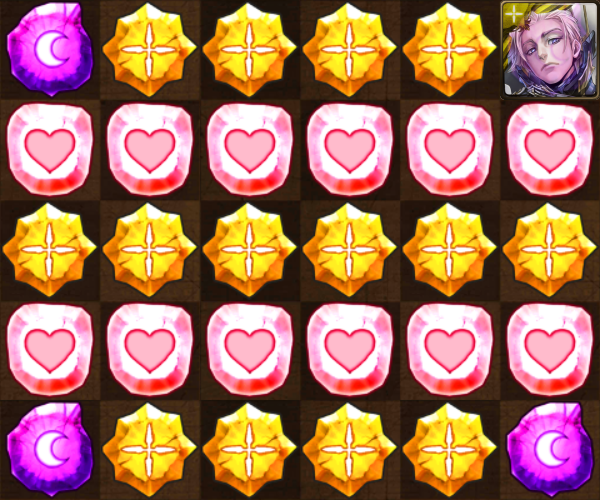
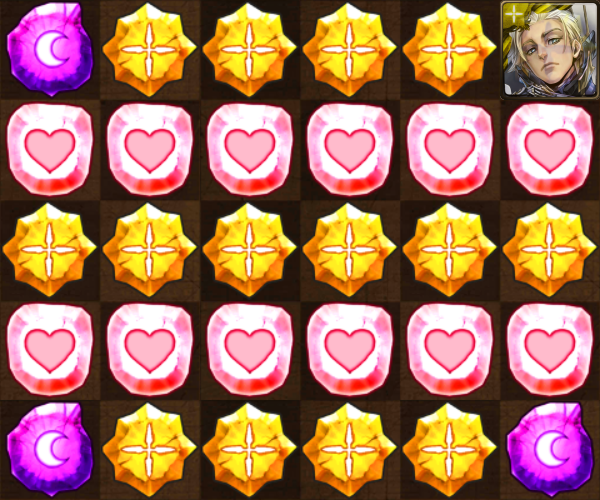
10823

Changed region(s): [[0.84, 0.0, 0.99, 0.21]]

diff --git a/tos/number/data.js b/tos/number/data.js
@@ -18,6 +18,10 @@ const data = [
   { id: 10647, attr: 'fire', race: 'human' },
   { id: 10726, attr: 'dark', race: 'machina', branch: 2 },
   { id: 10732, attr: 'water', race: 'human' },
+  { id: 10802, attr: 'fire', race: 'human', branch: 2 },
+  { id: 10807, attr: 'light', race: 'human' },
+  { id: 10809, attr: 'light', race: 'human' },
+  { id: 10823, attr: 'light', race: 'machina' },
 ];
 
 export default data;
